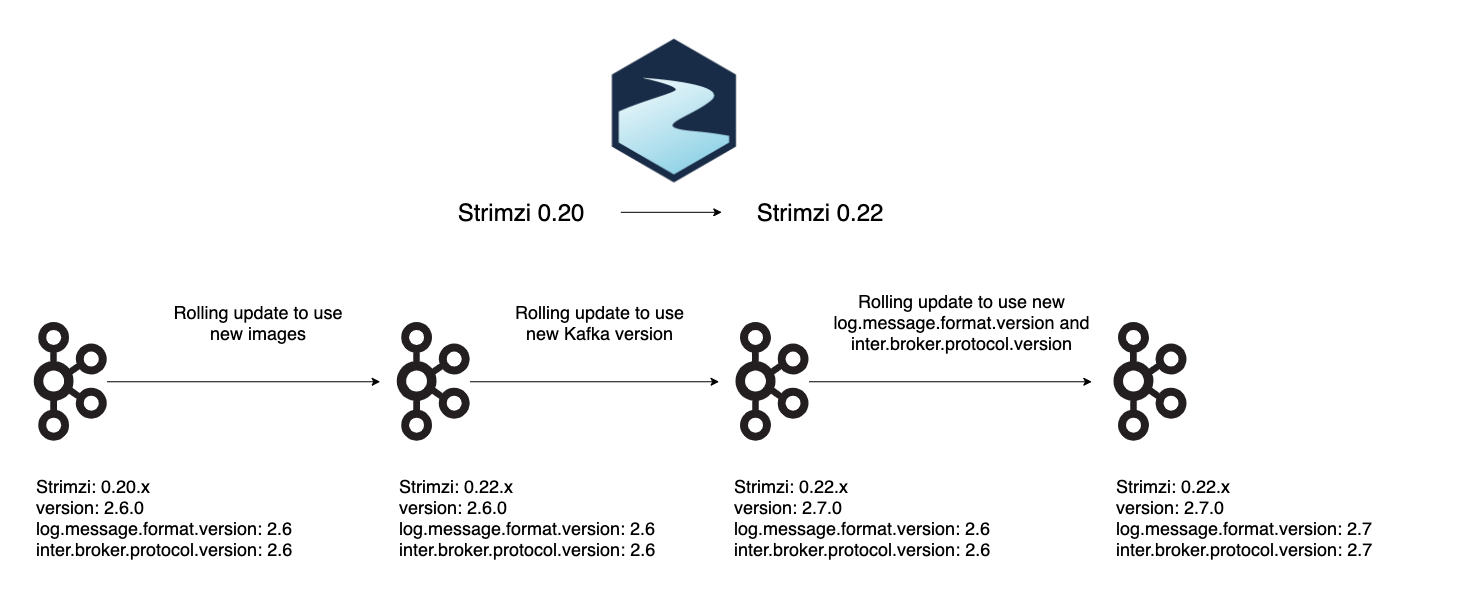
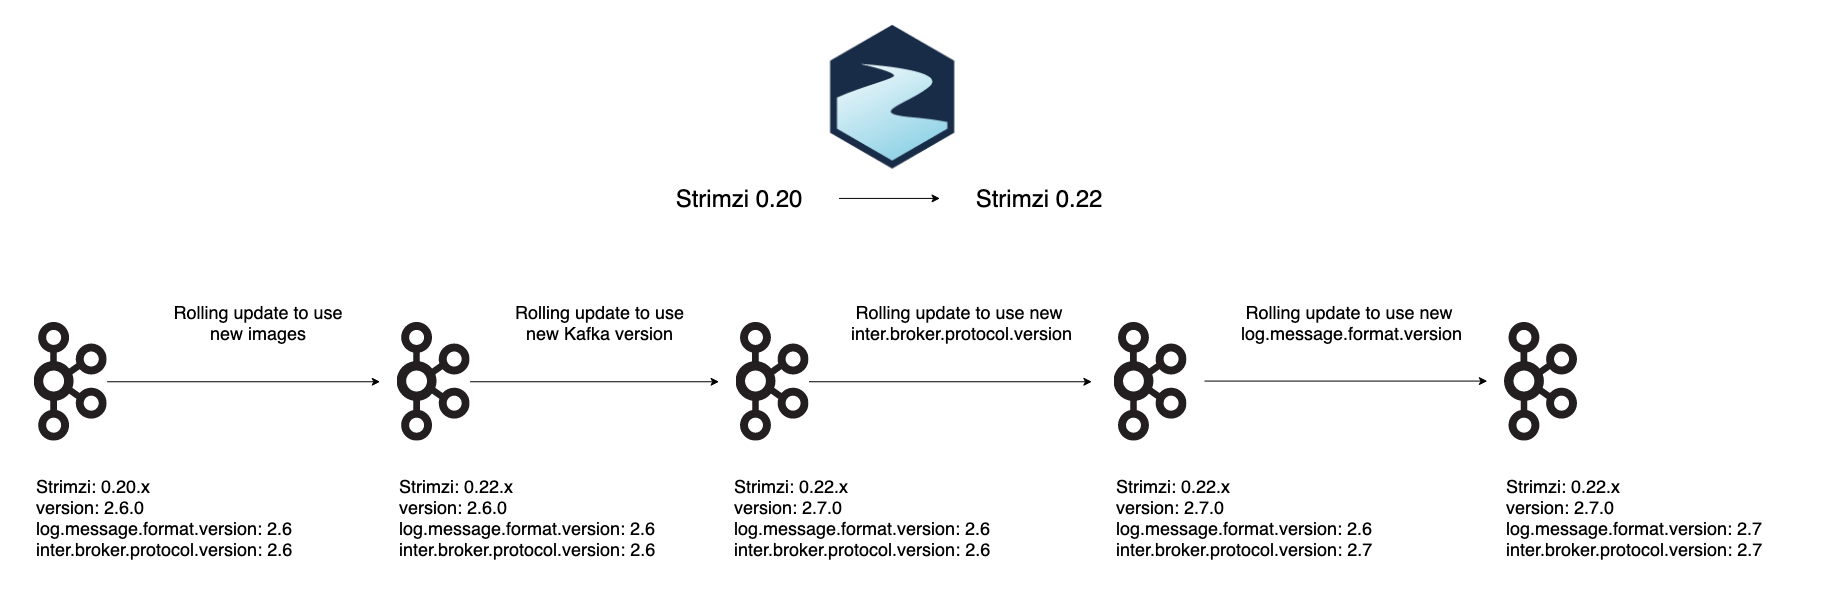
Updates

diff --git a/_posts/2021-04-07-upgrade-improvements.md b/_posts/2021-04-07-upgrade-improvements.md
@@ -5,7 +5,7 @@ date: 2021-04-07
 author: jakub_stejskal
 ---
 The upgrade of Strimzi and Kafka is not a trivial process.
-In Strimzi 0.22 we introduced several improvements to make the process easier.
+In Strimzi 0.22 and 0.24 we introduced several improvements to make the process easier.
 This post shows you how the upgrade process has changed, and what you should do to keep your cluster working without issues.
 
 <!--more-->
@@ -43,7 +43,8 @@ In cases like this, Strimzi determines the versions and performs the upgrade as 
 * Perform a rolling update of the Kafka cluster to change the images from the old Strimzi version to the new one.
 * Upgrade the Kafka `version` to the default version supported by the new Strimzi version, which will perform a rolling update.
 * Get `log.message.format.version` and `inter.broker.protocol.version` based on `version`.
-* Set `log.message.format.version` and `inter.broker.protocol.version`, and perform a rolling update of the Kafka cluster.
+* Set `inter.broker.protocol.version`, and perform a rolling update of the Kafka cluster.
+* Set `log.message.format.version`, and perform a rolling update of the Kafka cluster.
 
 You can see the states of the upgrade process and each rolling update in the diagram below.
 
